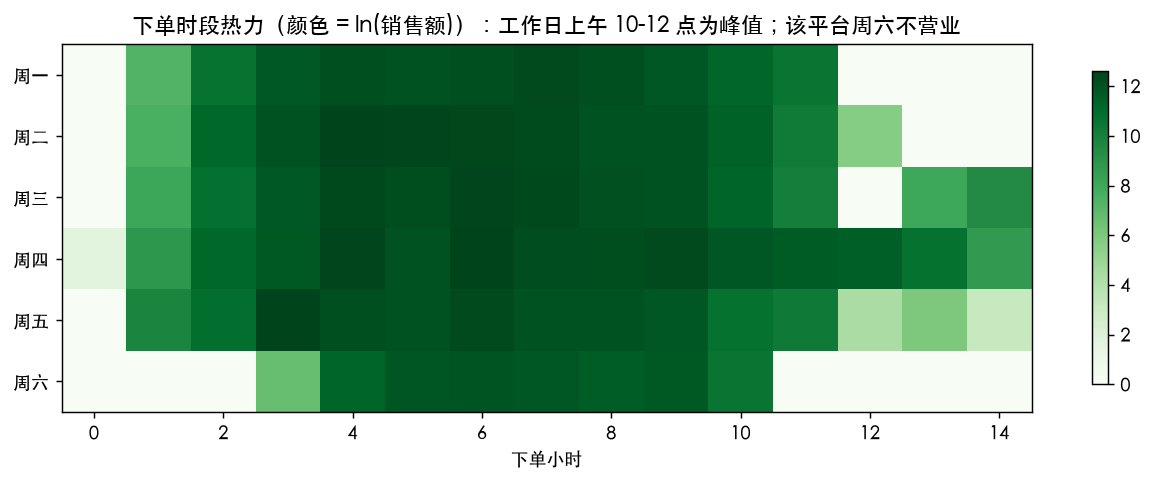
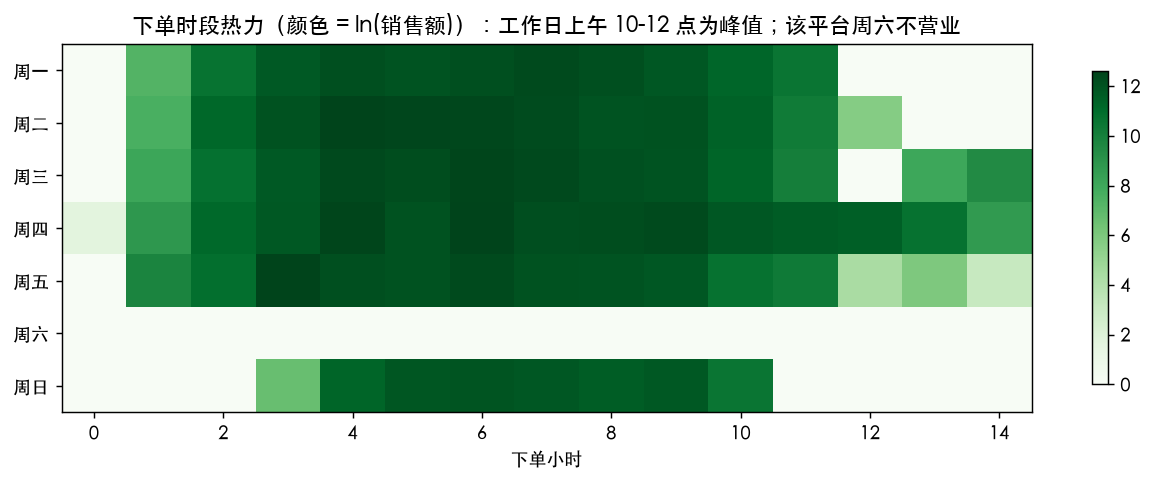
fix: 问题排查与优化——真实数据口径修正、热力图星期标签、层次筛选兼容、文档校准

diff --git a/src/analysis.py b/src/analysis.py
@@ -70,10 +70,12 @@ metrics["peak_month_gmv"] = round(float(monthly.max()), 0)
 # ========== 3. 下单时段规律（星期 × 小时热力） ==========
 known["dow"] = known["InvoiceDate"].dt.dayofweek
 known["hour"] = known["InvoiceDate"].dt.hour
-heat = known.pivot_table(index="dow", columns="hour", values="Revenue", aggfunc="sum").fillna(0)
+# reindex 到完整 7 天：该平台周六无交易，缺失会让后续标签整体错位
+heat = (known.pivot_table(index="dow", columns="hour", values="Revenue", aggfunc="sum")
+        .reindex(range(7)).fillna(0))
 fig, ax = plt.subplots(figsize=(10, 3.8))
 im = ax.imshow(np.log1p(heat), aspect="auto", cmap="Greens")
-ax.set_yticks(range(len(heat)), ["周一", "周二", "周三", "周四", "周五", "周六", "周日"][: len(heat)])
+ax.set_yticks(range(7), ["周一", "周二", "周三", "周四", "周五", "周六", "周日"])
 ax.set_xlabel("下单小时")
 ax.set_title("下单时段热力（颜色 = ln(销售额)）：工作日上午 10-12 点为峰值；该平台周六不营业")
 fig.colorbar(im, ax=ax, shrink=0.85)
